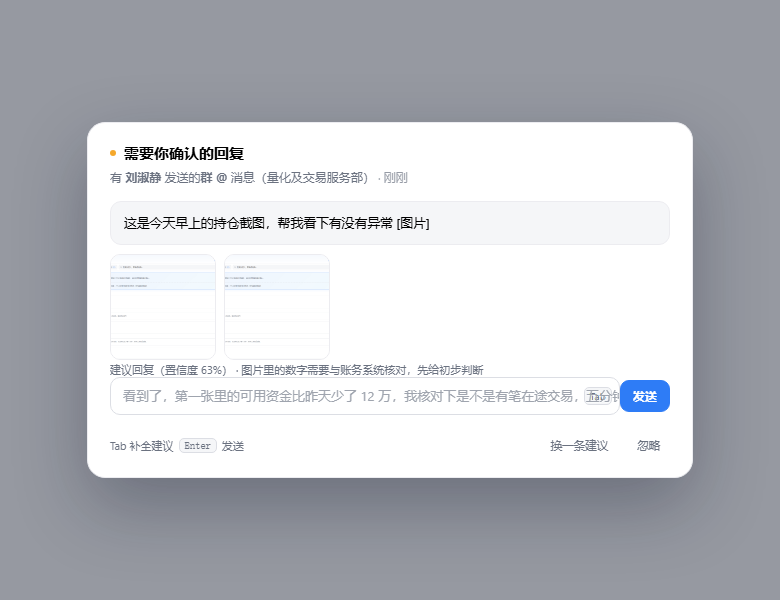
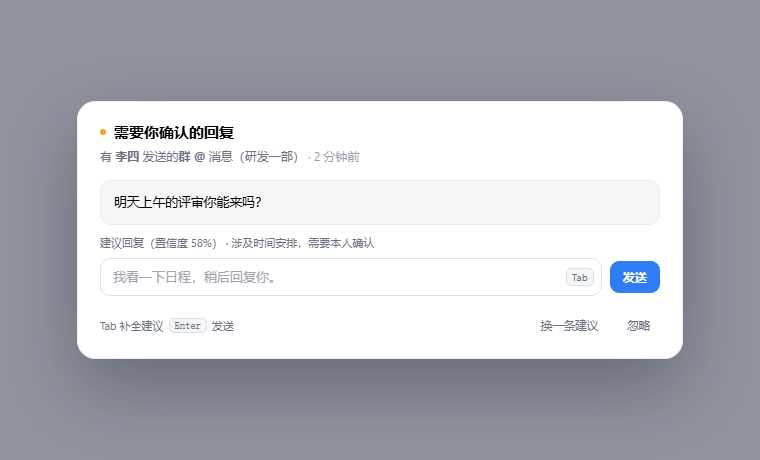
chore(privacy): replace real names/orgs/ids with fictional samples and regenerate all screenshots

Changed region(s): [[0.0908, 0.1826, 0.9079, 0.8217], [0.1513, 0.4261, 0.3632, 0.487]]

diff --git a/client.js b/client.js
@@ -24,7 +24,7 @@ window.__ModuleLoader__.load({
     const POLL_MS = 5000
     const SOFT_POLL_MS = 30000
     // 与 package.json 的 version 保持一致：宿主上报的 build 前缀对不上，说明 DSH 还在跑旧宿主代码。
-    const CLIENT_BUILD = '0.3.3'
+    const CLIENT_BUILD = '0.3.4'
     // 源码仓库（GitHub）：Star 与 Issue 入口都指向这里
     const REPO_URL = 'https://github.com/gcggcg/dsh-plugin-dingtalk-bridge'
     const ISSUES_URL = `${REPO_URL}/issues`

diff --git a/src/host/service.js b/src/host/service.js
@@ -19,7 +19,7 @@ import { buildSuggestPrompt, generateSuggestion, formatClock } from './suggest.j
 
 export const ROUTE_PREFIX = '/api/dingtalk-bridge'
 /** 每次改动宿主行为就换个标记：界面与 http-debug.log 都会带上，用来确认「跑的是新代码」。 */
-export const HOST_BUILD = '0.3.3-20261117T1145'
+export const HOST_BUILD = '0.3.4-20261117T1330'
 
 /** 私信（单聊）全部消息。 */
 const O2O_KEY = 'user_im_message_receive_o2o_all'

diff --git a/docs/使用说明.md b/docs/使用说明.md
@@ -143,7 +143,9 @@ dws auth login --device --no-browser
 
 ## 2. 界面总览
 
-> 下面三张是用真实运行态渲染的界面截图（收件箱面板、钉钉授权弹框、待确认弹框），后续章节的 ASCII 示意图与它们一一对应。
+> 下面三张是用真实插件渲染的界面截图（收件箱面板、钉钉授权弹框、待确认弹框），后续章节的 ASCII 示意图与它们一一对应。
+>
+> 🔒 所有截图里的姓名、组织、群名、消息内容与账号都是**虚构示例**（张三 / 李四 / 王五 / 星海科技 / 研发一部），ID 也已替换为 `openIdLiSi…`、`cidExample…` 之类的占位值，不含任何真实用户数据。
 
 | 收件箱面板 | 钉钉授权弹框（默认 loopback，无需授权码） | 待确认回复弹框 |
 | --- | --- | --- |
@@ -151,7 +153,7 @@ dws auth login --device --no-browser
 
 > 授权弹框默认是 **loopback** 形态：只有「在浏览器里完成一次授权」说明 + **打开钉钉授权页面** 按钮，没有二维码也不需要授权码；把 `loginMode` 设为 `device` 后才变成二维码 + 授权码形态（截图见 `images/auth-device.png`，说明见 [8.2](#82-两种授权方式)）。
 >
-> 📷 收件箱截图已是 **0.2.4** 版（消息列表在固定高度滚动框 `.dsh-dt-listbox` 内）、说明视图截图是 **0.2.7** 版（`docs/images/help-view.png`）、群 @ 回复截图是 **0.2.8** 版（`docs/images/group-at-reply.png`，见 [6.4](#64-群--回复会先--回对方)）、来源筛选条截图是 **0.2.9** 版（`docs/images/sources-collapsed.png` / `sources-expanded.png`，见 [4.2](#42-来源筛选条怎么用)）；授权弹框、待确认弹框、设置页截图取自 0.2.3 版，字段与布局细节以文中文字、ASCII 图（[2.2](#22-收件箱面板布局)、[2.2.1](#221-固定高度的消息滚动区)、[2.2.2](#222-使用说明独立视图)）为准。
+> 📷 文中截图统一用 **0.3.4** 版界面重新生成：收件箱（`images/inbox-panel.png`）、说明视图（`help-view.png`）、待确认弹框（`confirm-modal.png`）、授权弹框（`auth-loopback.png` / `auth-device.png`）、设置页（`settings.png`）、来源条折叠与展开（`sources-collapsed.png` / `sources-expanded.png`）、群 @ 回复（`group-at-reply.png`）、连续多条（`duplicate-hint.png`）、上下文窗口下拉框（`window-setting.png`）、Star/Issue 入口（`star-issue.png`）。字段与布局细节以文中文字、ASCII 图（[2.2](#22-收件箱面板布局)、[2.2.1](#221-固定高度的消息滚动区)、[2.2.2](#222-使用说明独立视图)）为准。
 
 ### 2.1 从侧边栏进入
 
@@ -172,7 +174,7 @@ dws auth login --device --no-browser
 ```
 ┌────────────────────────────────────────────────────────────────────────────┐
 │ ● 钉钉消息自动化    钉钉授权   [演练模式]    刷新   重启监听   使用说明    │  ← 顶部状态栏（固定）
-│  实时监听中 · 1 个组织 · 以 葛春光 身份接收私信与群 @                      │
+│  实时监听中 · 1 个组织 · 以 张三 身份接收私信与群 @                      │
 ├────────────────────────────────────────────────────────────────────────────┤
 │ [全部 12] [私信 7] [群 @ 5] [待回复 3]    ⌕ 搜索发送人、群名或内容…   清空 │  ← 筛选工具栏（固定）
 ├────────────────────────────────────────────────────────────────────────────┤
@@ -183,7 +185,7 @@ dws auth login --device --no-browser
 │ │ 自动回复阈值 ──●────── 72%   置信度 ≥ 阈值且判断明确时自动发送         │ │
 │ │ 40%            70%            100%      模型 deepseek-v4.1-flash       │ │
 │ ╰────────────────────────────────────────────────────────────────────────╯ │
-│ (全部来源 12) (张三 4) (项目群 6) (李四 2) (还有 7 个 ▾)                   │  ← 来源筛选条（固定，不换行）
+│ (全部来源 12) (研发一部 46) (王五 23) (产品评审群 18) (还有 7 个 ▾)          │  ← 来源筛选条（固定，不换行）
 ├────────────────────────────────────────────────────────────────────────────┤
 │ ℹ 重新授权成功，已清空旧消息                                               │  ← 提示条 inboxNotice（有才显示）
 │ ╭────────────────────────────────────────────────────────────────────────╮ │  ← 固定高度滚动框 .dsh-dt-listbox（框内滚动）
@@ -490,13 +492,13 @@ dm:open-zhangsan              → 张三（单聊）
 - 与标签页、搜索框是**与**关系：例如「群 @」+「项目群」= 只显示该群的 @ 消息。
 
 ```
-折叠态： (全部来源 93) (未命名群聊 74) (_@韩成龙 12) (OA 审批助手 1) (刘淑静 3) (项目助手 1) (还有 7 个 ▾)
+折叠态： (全部来源 12) (研发一部 46) (王五 23) (产品评审群 18) (数据平台告警 12) (李四 9) (还有 7 个 ▾)
                                                                                               ▲ 点它展开
 
-展开态： (全部来源 93) ... (项目助手 1) (收起 ▴)
+展开态： (全部来源 12) ... (李四 9) (收起 ▴)
          ┌──────────────────────────────────────────────────────────────┐
          │ 全部来源（12）   [ 按群名或发送人筛选来源… ]                  │
-         │ (未命名群聊 74) (_@韩成龙 12) (刘淑静 3) (OA 审批助手 1) ... │ ← 自动换行 + 面板内滚动
+         │ (研发一部 46) (王五 23) (产品评审群 18) (数据平台告警 12) ... │ ← 自动换行 + 面板内滚动
          └──────────────────────────────────────────────────────────────┘
 ```
 
@@ -1210,8 +1212,8 @@ snapshot 里的 `login` 字段为 `{status, mode, code, url, qr, qrUrl, message,
 当前使用模型  deepseek-v4.1-flash（dsh-opencode-go）
 ────────────────────────────────────────────────
 连接状态      实时监听中 · 1 个组织
-钉钉授权      已登录：葛春光
-当前账号      葛春光
+钉钉授权      已登录：张三
+当前账号      张三
 组织 profile  dingxxxx:270159361533392991
 已登录组织    1 个
 重新授权前先退出旧组织  已开启（只保留本次新授权的组织）

diff --git a/README.md b/README.md
@@ -16,7 +16,7 @@
 - **阴影建议 + Tab 补全**：每条消息的输入框里直接显示 AI 建议（浅灰「阴影字」），按 `Tab` 补全、`Enter` 发送、`Esc` 收起；也可以无视建议自己改。
 - **自动回复开关**：收件箱顶部一个开关。关闭时每条消息下方都有独立输入框；开启后 AI 先判断能否直接回复，把握不足就弹框转人工。
 - **可信度阈值**：开关下方的滑杆（40%–100%，拖动即时生效并自动保存），只有「置信度 ≥ 阈值且模型判断明确」才自动发送，其余一律转人工确认。
-- **主界面弹框**：`shell.overlay` 全局浮层，文案形如「有 **张三** 发送的**群 @**消息（量化及交易服务部）· 3 分钟前」，带原文、图片、建议预览与发送按钮。
+- **主界面弹框**：`shell.overlay` 全局浮层，文案形如「有 **张三** 发送的**群 @**消息（星海科技）· 3 分钟前」，带原文、图片、建议预览与发送按钮。
 - **匹配度可见**：每条建议标出模型自评匹配度；自动回复的消息还会注明「达到阈值自动发送」。
 - **图片消息**：自动下载并展示缩略图；当前模型支持视觉时把图片一并交给模型分析，不支持时注明「已忽略图片内容」。
 - **上下文：每个来源一条滑动窗口**：私信按发送人、群 @ 按群会话各维护一条独立窗口（`windowMessages`，默认 5 条，收件箱顶部「上下文窗口」下拉框可直接改 2/3/5/8/10/15/20），新消息滑入、最早一条滑出，我的回复也入窗；AI 只看本来源窗口里的内容，不同群/不同人绝不串味。窗口没攒满时自动用「钉钉最新 10 条」补齐，窗口随 `state.json` 落盘，重启不丢。
@@ -30,6 +30,8 @@
 - **持久化与自愈**：状态存在 `<DSH_HOME>/integrations/dingtalk-bridge/state.json`（tmp + rename 原子写，mode 0600），图片在 `.../media/`；早于 2020 年或超前一天的时间戳重置为当前时间，旧版 `confirmation_required` 失败记录自动清掉。
 
 ## 界面预览
+
+> 截图中的姓名、组织、群名与消息内容全部是**虚构示例**（张三 / 李四 / 王五 / 星海科技 / 研发一部），不含任何真实用户数据。
 
 | 收件箱（固定高度滚动框 + 来源条折叠） | 使用说明独立视图 |
 | --- | --- |
